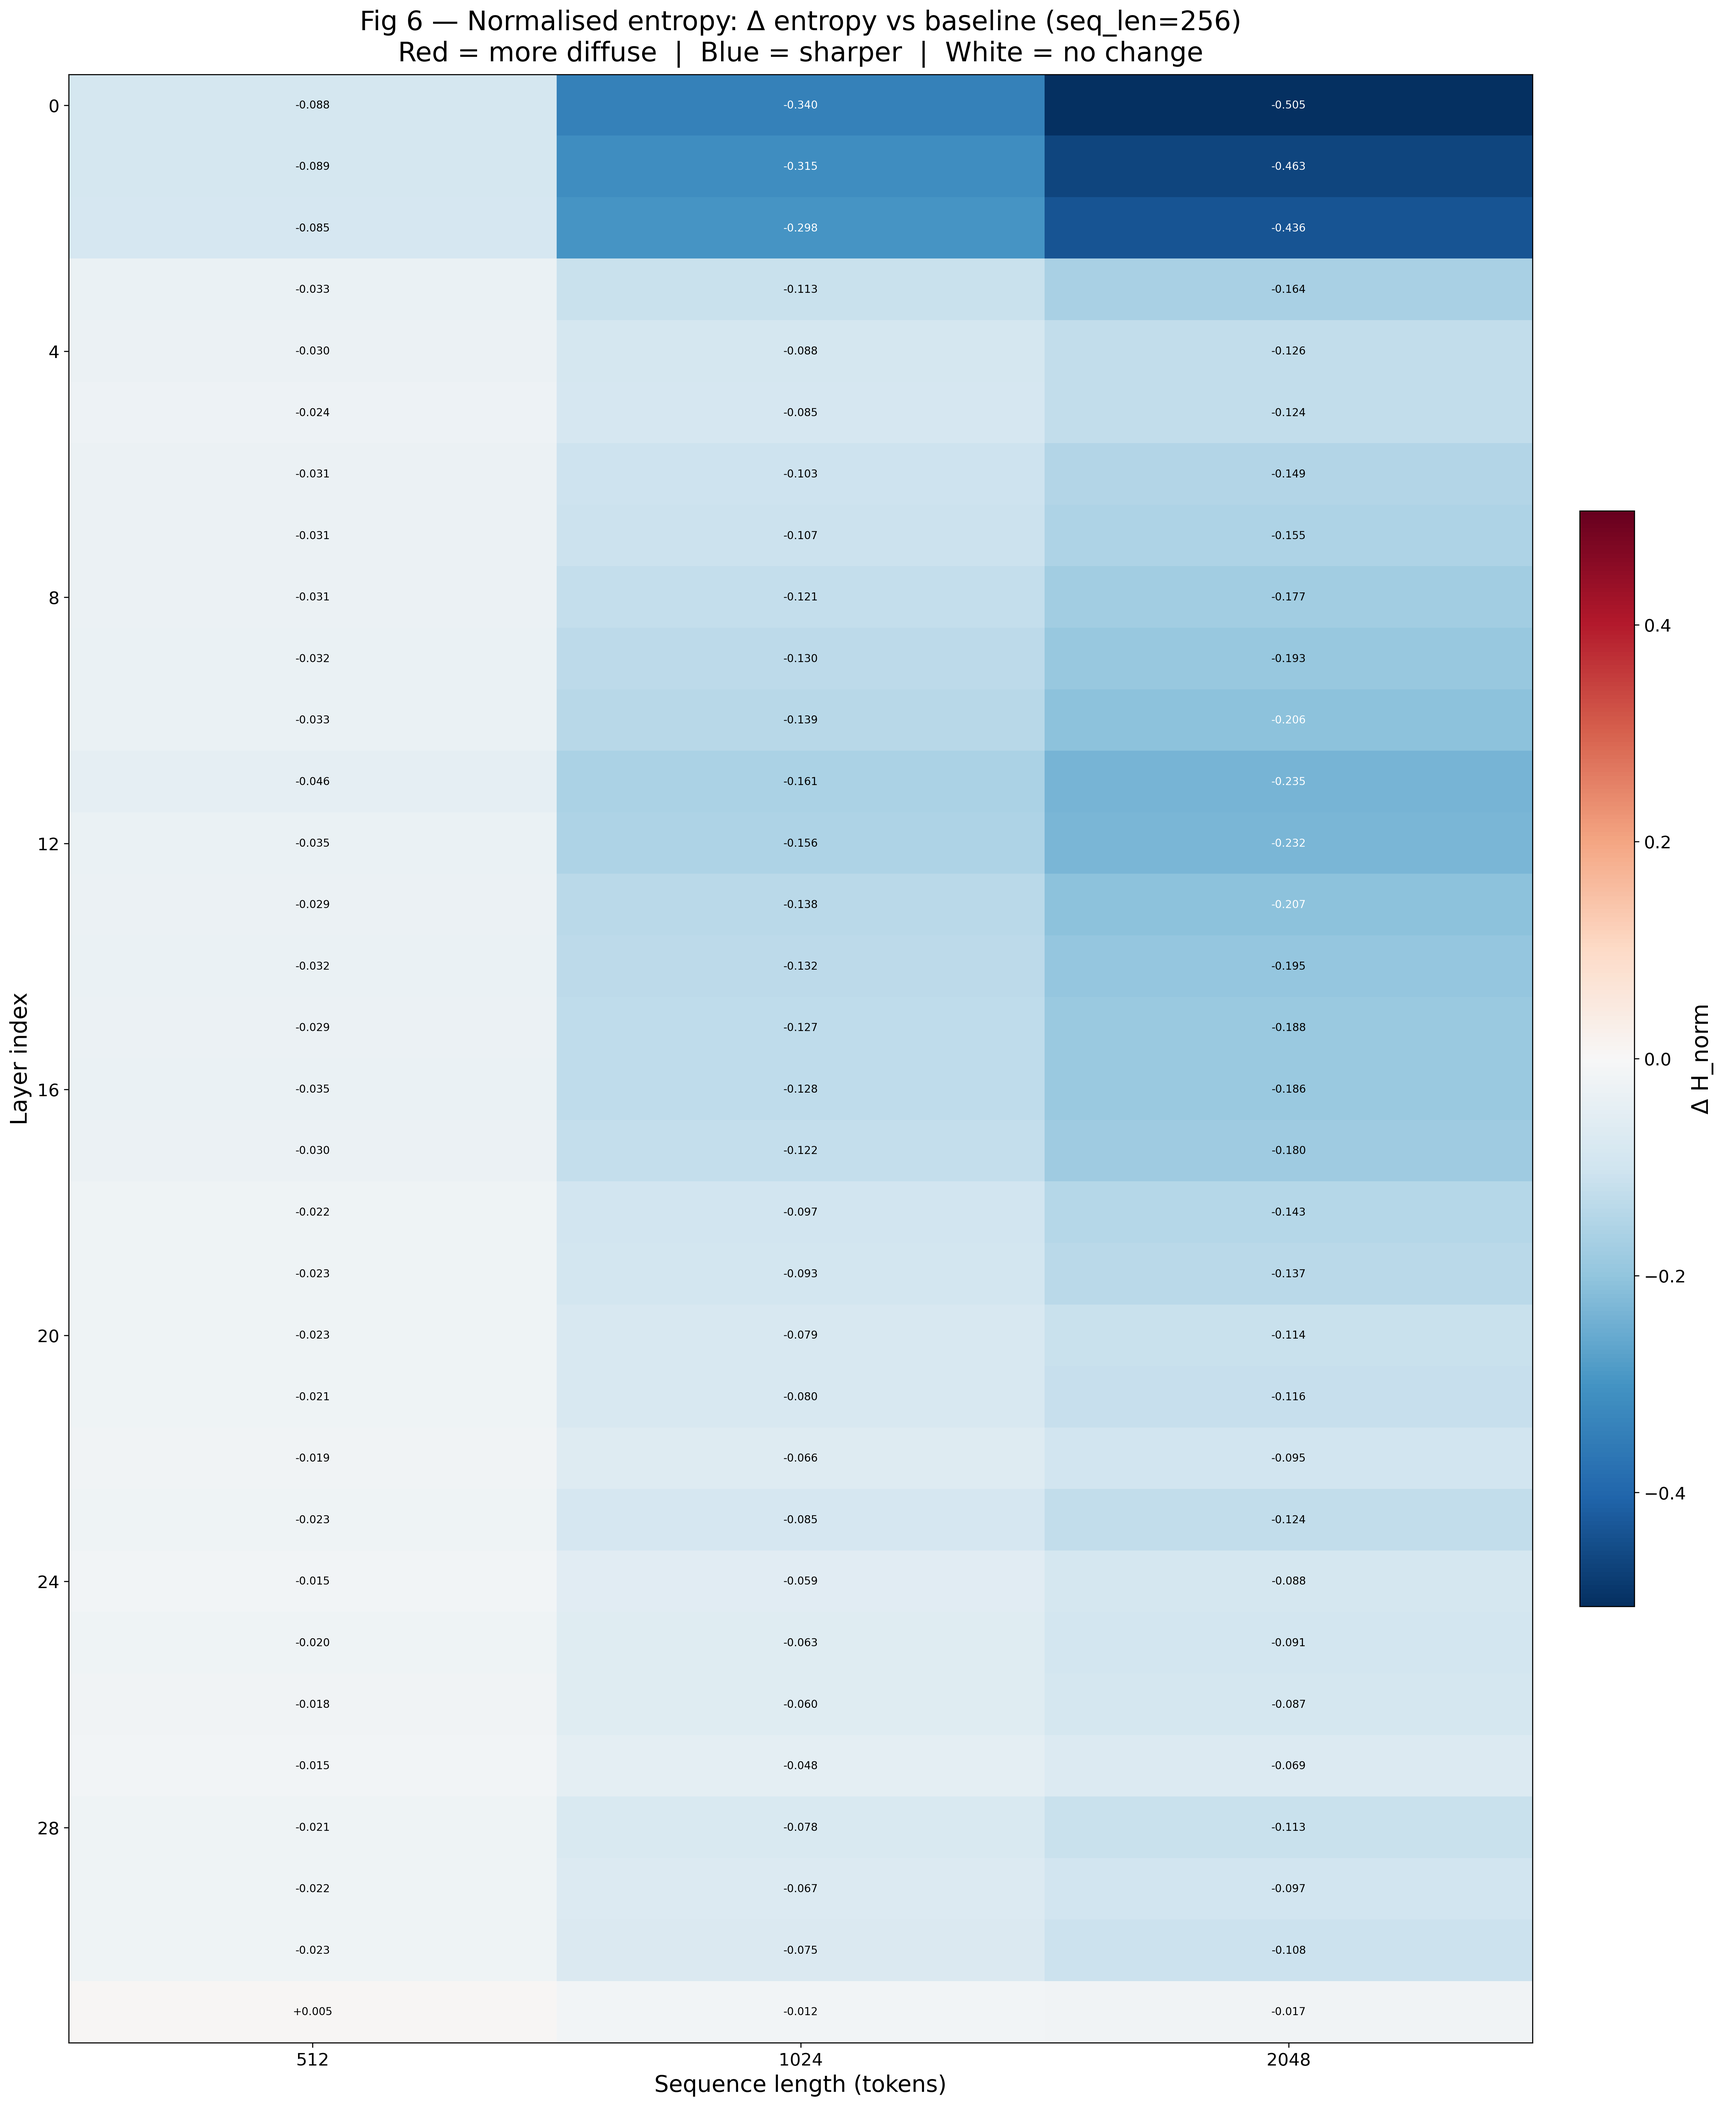
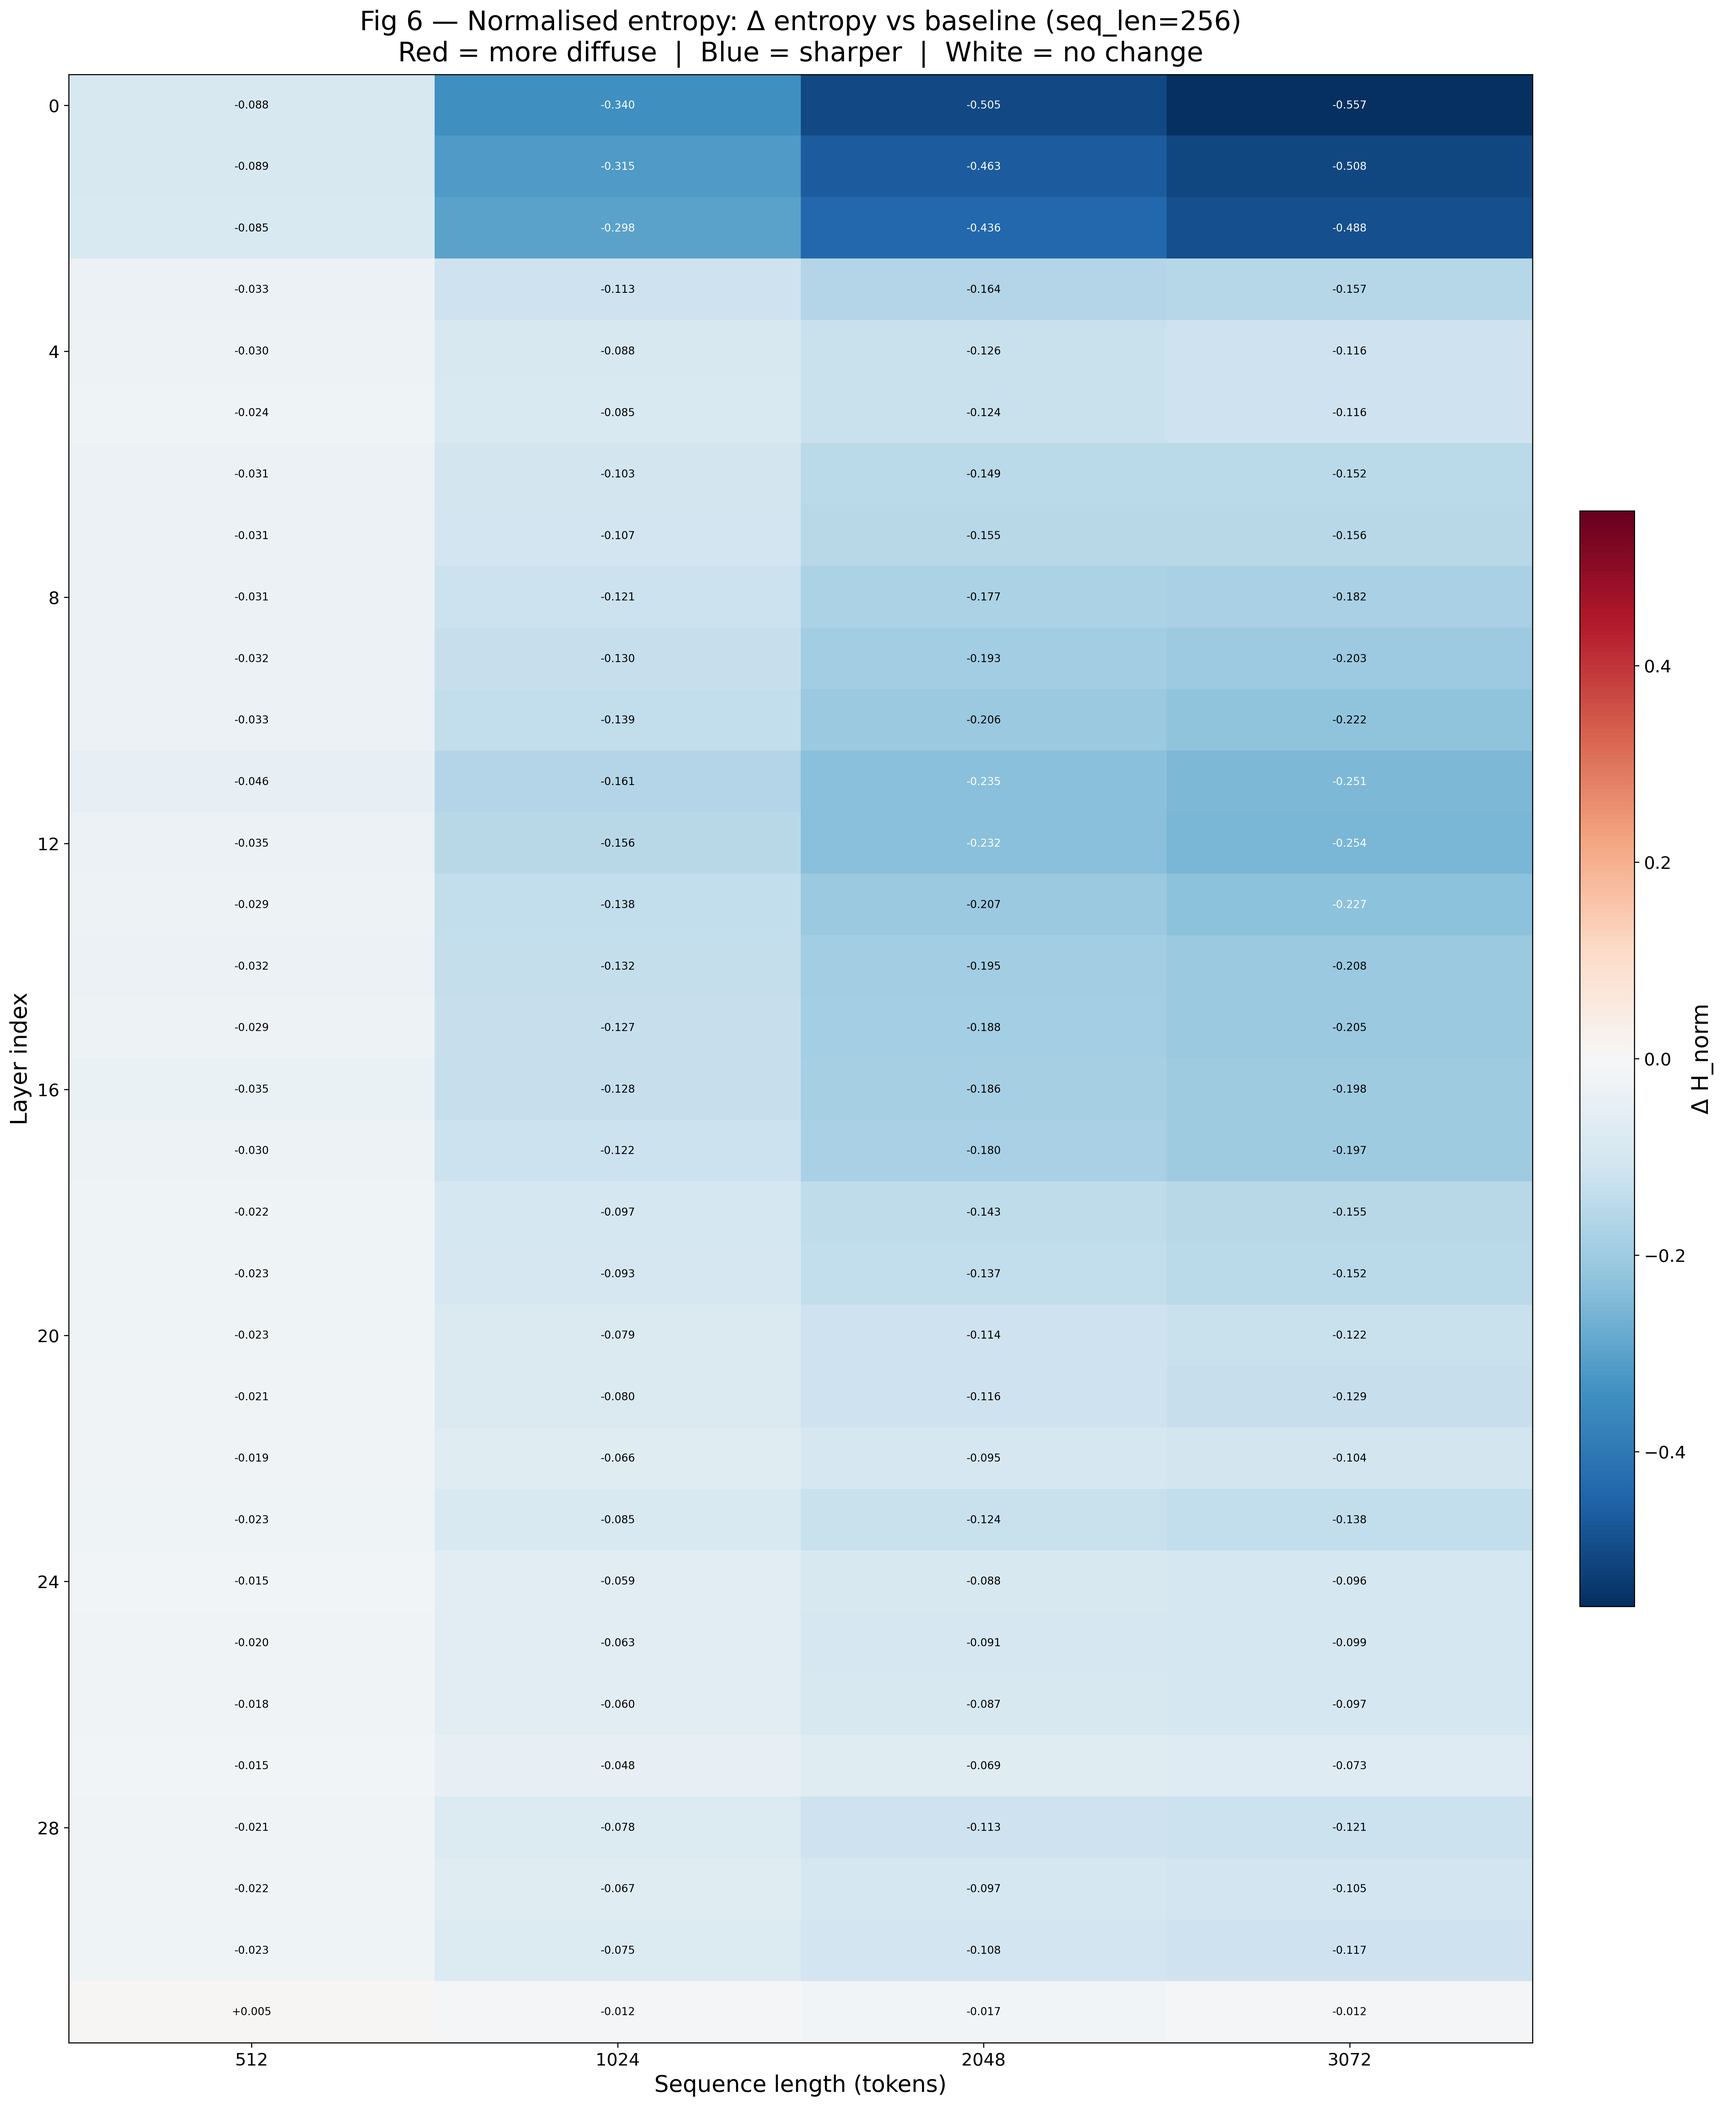
entropy add 3K

diff --git a/eval/entropy.py b/eval/entropy.py
@@ -43,7 +43,7 @@ import gc
 import os
 import sys
 
-os.environ["CUDA_VISIBLE_DEVICES"] = "1,2,3"
+# s.environ["CUDA_VISIBLE_DEVICES"] = "1,2,3"
 sys.path.insert(0, os.path.abspath(os.path.join(os.path.dirname(__file__), "..")))
 
 import json
@@ -234,6 +234,8 @@ class EntropyEvaluator:
                 lst.append(nxt)
             else:
                 break
+        if self.max_length not in lst:
+            lst.append(self.max_length)
         return lst
 
     # ------------------------------------------------------------------
@@ -308,7 +310,7 @@ class EntropyEvaluator:
 
             for l_idx, attn in enumerate(attentions):
                 # cast to float64 – critical for 4-bit quantised models
-                a = attn[0].double()  # [H, T, T]
+                a = attn[0].double().cpu()  # [H, T, T]
                 ent = _shannon_entropy(a)  # [H, T]
                 nrm = _position_normalise(ent)  # [H, T]
 
@@ -512,7 +514,7 @@ if __name__ == "__main__":
     args.model_name = args.model_name or "huggyllama/llama-7b"
     args.rope_type = "none"
     args.min_length = 256
-    args.max_length = 2048
+    args.max_length = 3072
 
     model, _ = load_model(args)
     tokenizer = load_tokenizer(args)

diff --git a/eval/plot_entropy.py b/eval/plot_entropy.py
@@ -76,6 +76,7 @@ _LENGTH_COLORS: dict[int, str] = {
     512: "#E65100",  # deep orange
     1024: "#2E7D32",  # dark green
     2048: "#B71C1C",  # dark red
+    3072: "#6A1B9A",  # deep purple
 }
 _FALLBACK_CMAP = plt.cm.tab10  # for unexpected lengths
 
